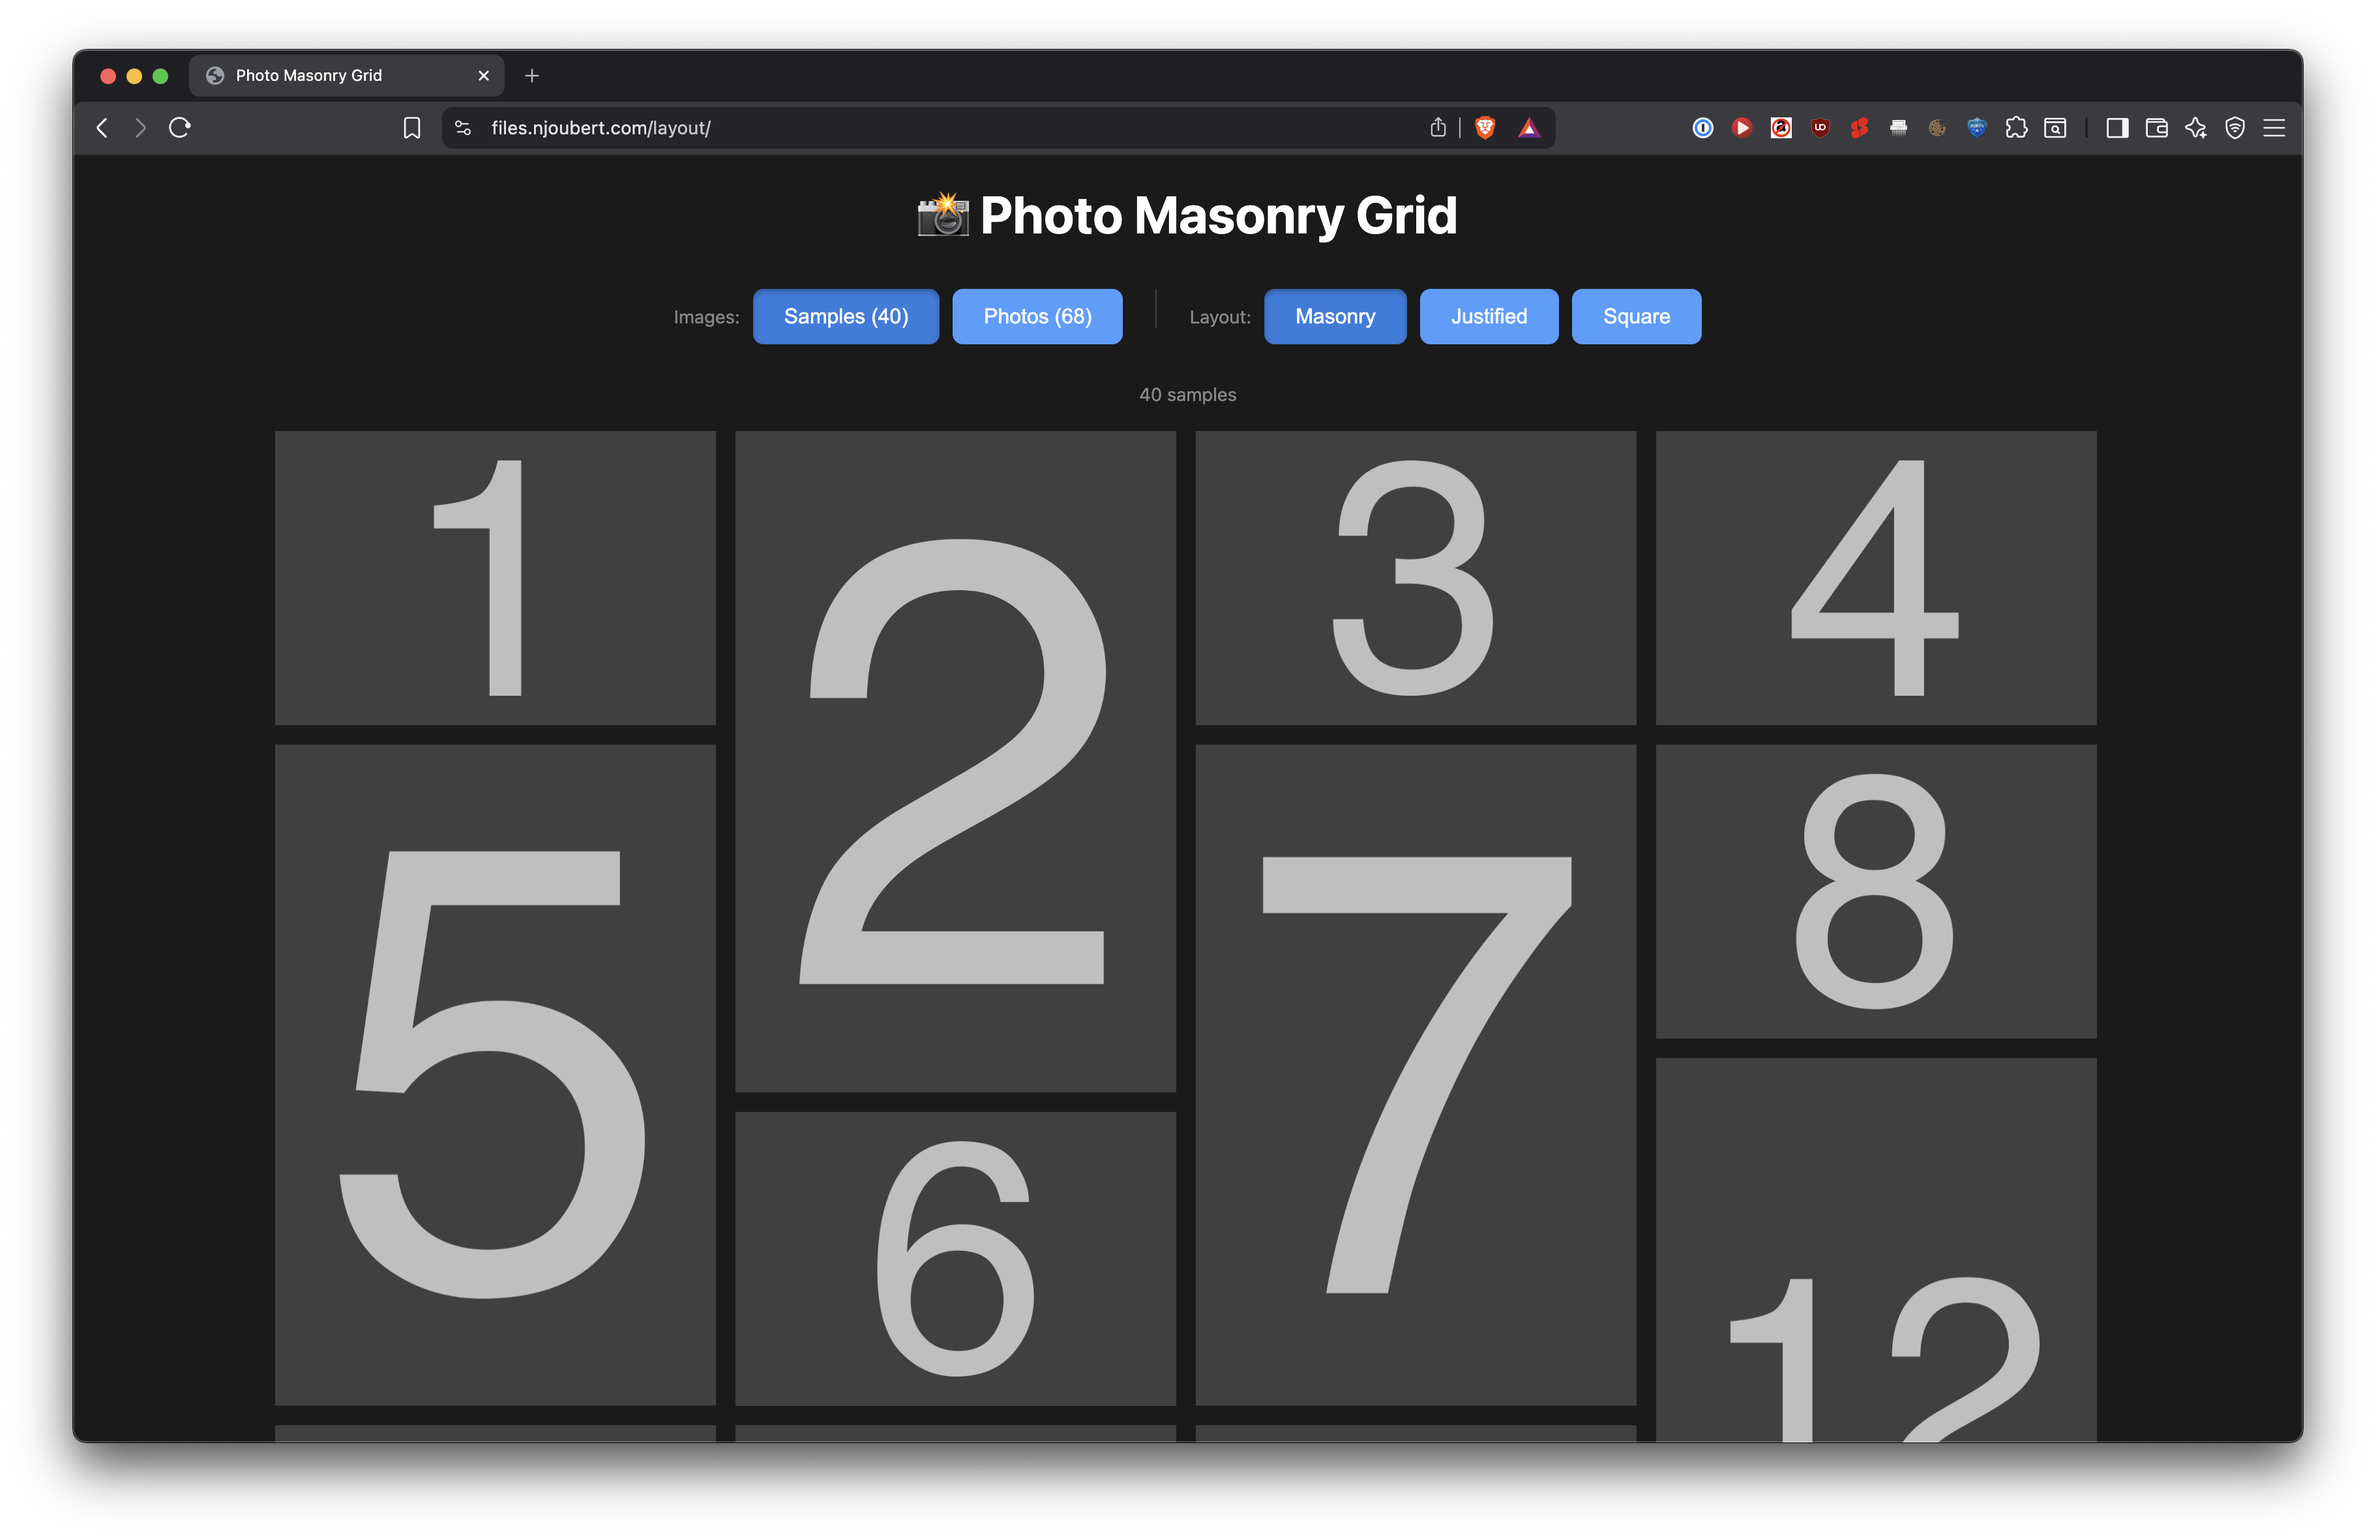
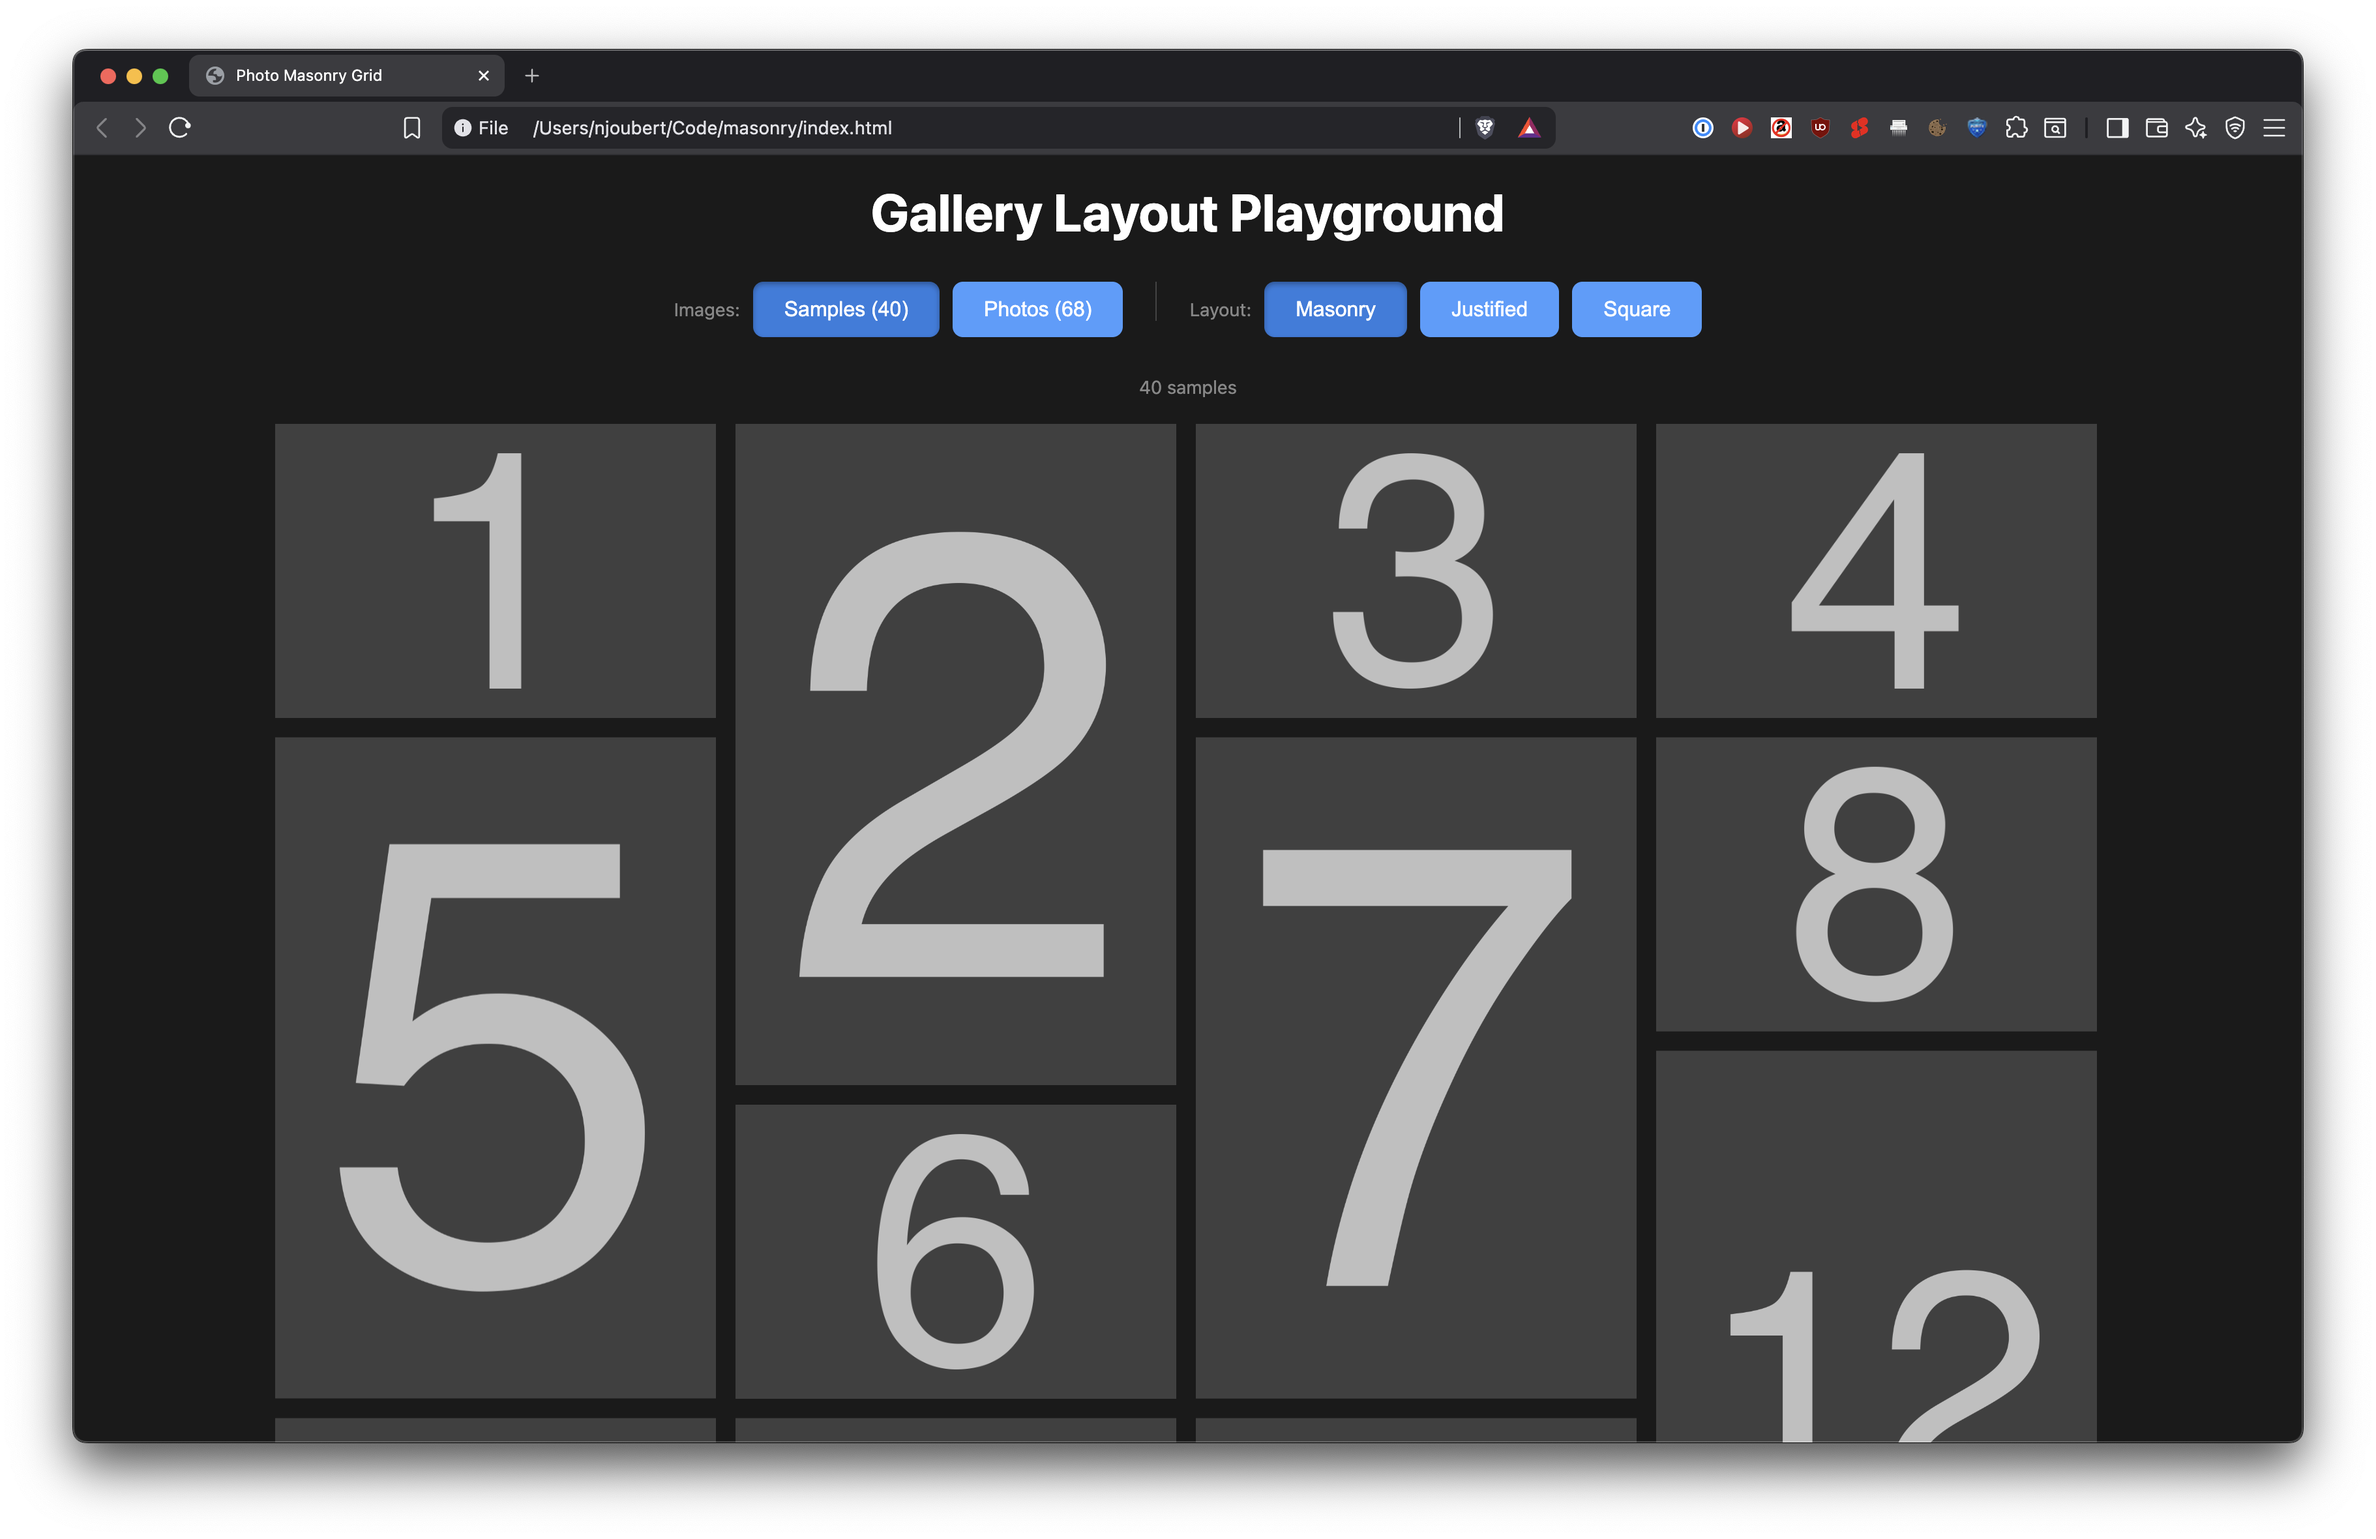
Three Layouts

diff --git a/index.html b/index.html
@@ -222,7 +222,7 @@
 </head>
 <body>
     <div class="header">
-        <h1>📸 Photo Masonry Grid</h1>
+        <h1>Gallery Layout Playground</h1>
     </div>
 
     <div class="controls">
